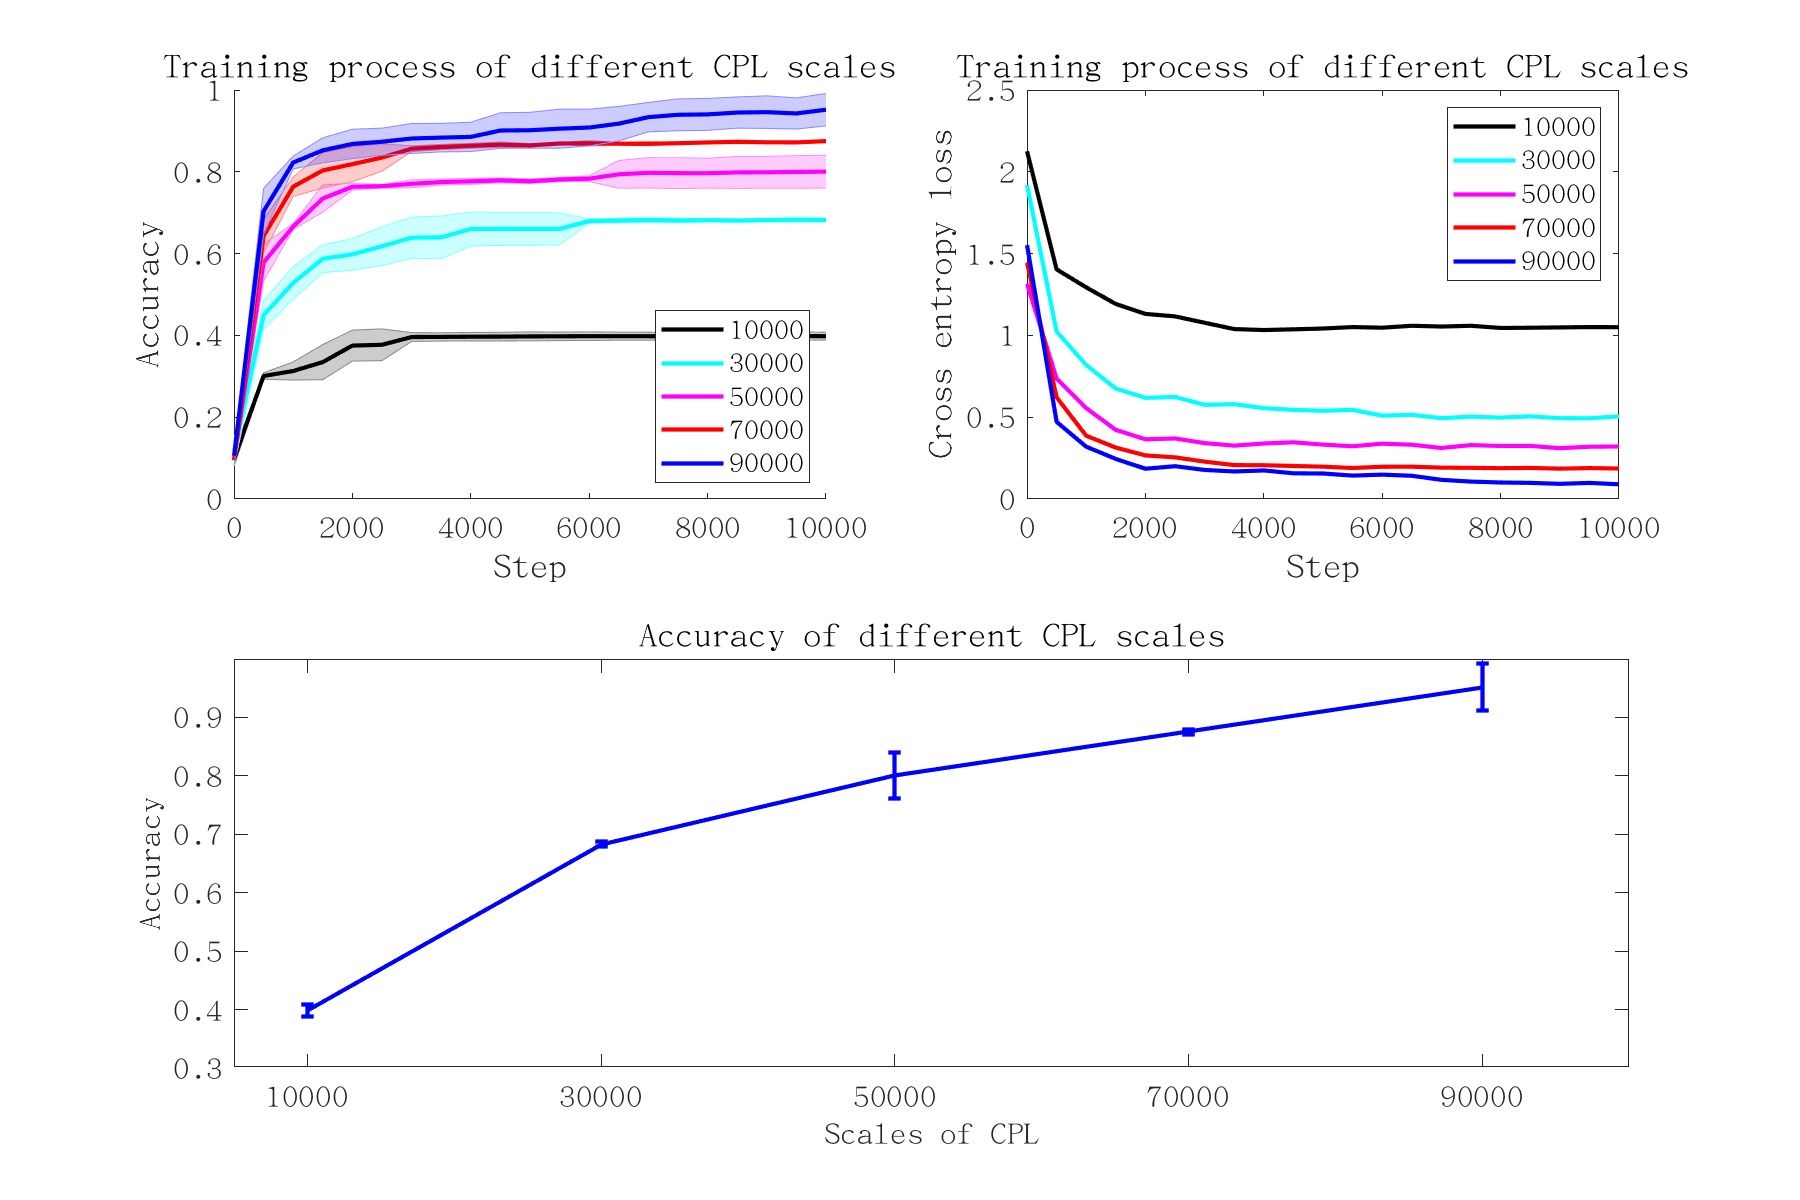
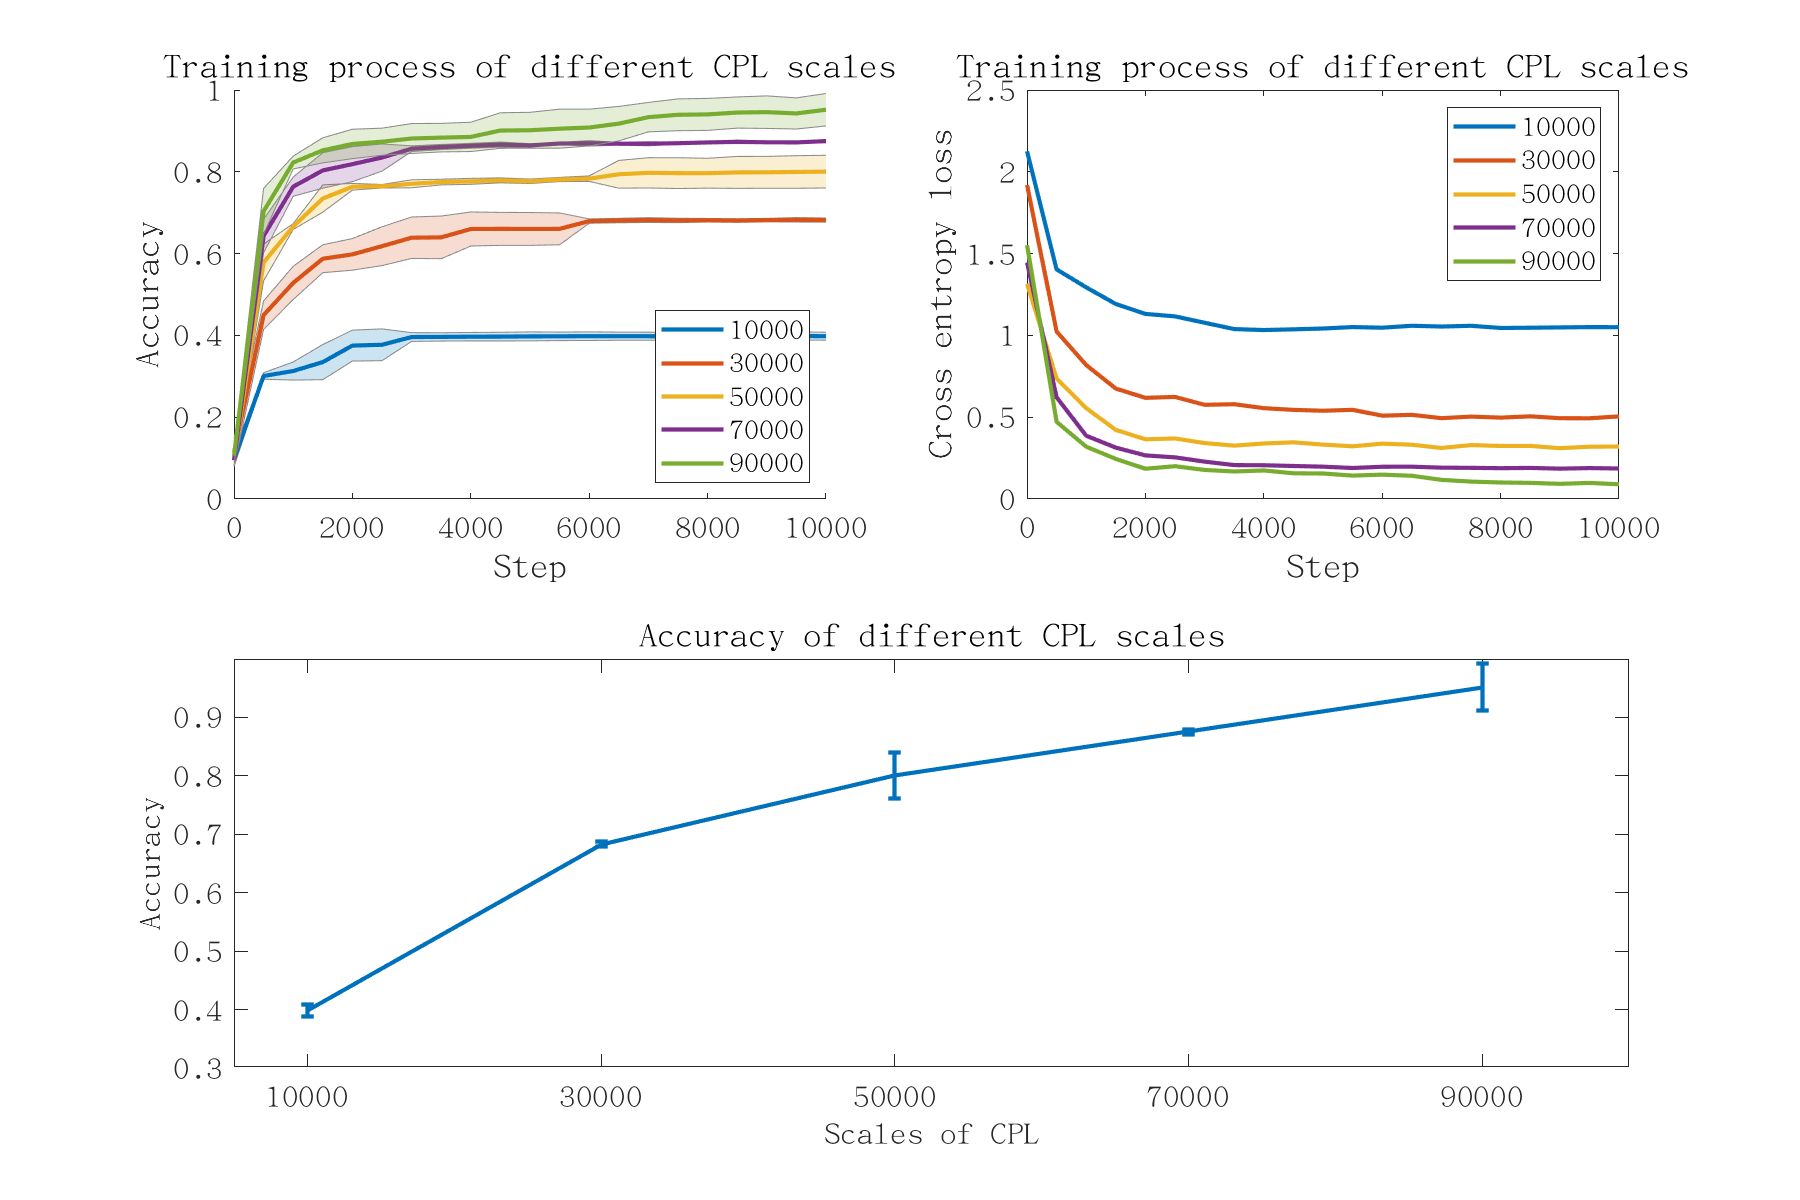
add

diff --git a/experiment/mnist/train_history/plot_out_features.m b/experiment/mnist/train_history/plot_out_features.m
@@ -35,13 +35,13 @@ end
 figure(1)
 fig_para = fig_paramter();
 subplot(2,2,1);
-colors = ['k','c','m','r','b'];
 for i=1:len
     acc_mean = acc_all_mean(i,:);
     acc_std = acc_all_std(i,:);
-    color = colors(i);
-    s = shadedErrorBar(step_index,acc_mean,acc_std,"lineprops",color);
-    set(s.mainLine,"LineWidth",fig_para.linewidth)
+    shaded_error_bar = shadedErrorBar(step_index,acc_mean,acc_std);
+    shaded_error_bar.mainLine.LineWidth = fig_para.linewidth;
+    shaded_error_bar.mainLine.Color = fig_para.colors(i,:);
+    shaded_error_bar.patch.FaceColor = fig_para.colors(i,:);
     hold on;
 end
 legend(num2str(out_features_cpls),"Location","SouthEast");
@@ -51,7 +51,7 @@ set(gca, "FontSize", fig_para.fontsize);
 title("Training process of different CPL scales");
 subplot(2,2,2);
 for i=1:len
-    plot(step_index,loss_all_mean(i,:),"LineWidth",fig_para.linewidth,"Color",colors(i))
+    plot(step_index,loss_all_mean(i,:),"LineWidth",fig_para.linewidth,"Color",fig_para.colors(i,:))
     hold on;
 end
 
@@ -61,7 +61,7 @@ set(gca, "FontSize", fig_para.fontsize);
 title("Training process of different CPL scales");
 legend(num2str(out_features_cpls),"Location","NorthEast");
 subplot(2,2,[3 4]);
-errorbar(out_features_cpls,acc_final_mean,acc_final_std,"-b","LineWidth",fig_para.linewidth)
+errorbar(out_features_cpls,acc_final_mean,acc_final_std,"Color",fig_para.colors(1,:),"LineWidth",fig_para.linewidth)
 axis([5000,100000,0.3,1])
 set(gca,"XTick",out_features_cpls);
 set(gca,"XTickLabel",out_features_cpls);
